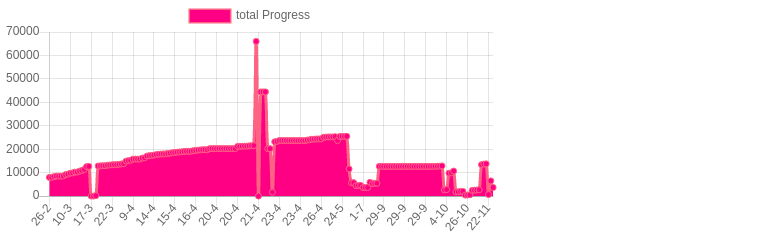
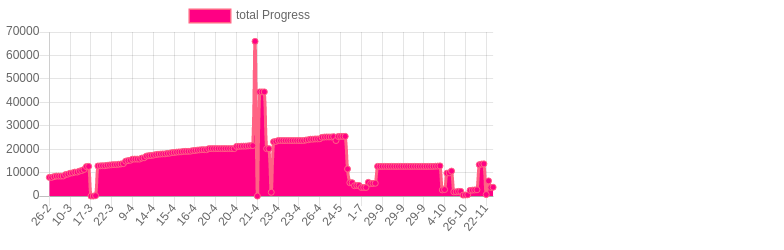
100 golang code

Changed region(s): [[0.0612, 0.14, 0.6429, 0.924], [0.0918, 0.7, 0.1224, 0.728]]

diff --git a/total.html b/total.html
@@ -9,7 +9,7 @@
         <script src="https://cdn.jsdelivr.net/npm/chart.js@2.8.0"></script>
         <script>
           var ctx = document.getElementById("total").getContext("2d");
-          const goLabelsDates = ["2021-02-27T01:37:43.112Z","2021-02-27T01:38:01.628Z","2021-03-01T13:41:18.753Z","2021-03-01T14:53:41.991Z","2021-03-01T15:08:00.851Z","2021-03-01T15:09:10.635Z","2021-03-01T15:22:55.385Z","2021-03-03T15:31:41.151Z","2021-03-05T14:02:13.446Z","2021-03-10T14:50:13.297Z","2021-03-11T01:54:03.424Z","2021-03-11T15:32:47.647Z","2021-03-11T16:01:51.191Z","2021-03-12T00:36:04.646Z","2021-03-13T00:14:58.179Z","2021-03-16T05:30:04.043Z","2021-03-17T21:17:52.181Z","2021-03-18T03:42:56.998Z","2021-03-18T03:44:29.834Z","2021-03-18T03:45:35.160Z","2021-03-18T03:45:54.668Z","2021-03-18T03:48:46.007Z","2021-03-18T05:10:54.427Z","2021-03-18T05:44:13.724Z","2021-03-18T05:56:11.032Z","2021-03-18T22:11:28.339Z","2021-03-19T11:28:55.383Z","2021-03-22T13:51:43.977Z","2021-03-23T01:52:09.452Z","2021-03-23T15:45:53.765Z","2021-03-24T01:46:02.104Z","2021-03-30T10:56:50.711Z","2021-04-01T15:03:17.764Z","2021-04-01T23:15:02.096Z","2021-04-07T19:21:55.040Z","2021-04-08T15:21:14.479Z","2021-04-09T23:17:58.037Z","2021-04-09T23:32:26.341Z","2021-04-09T23:34:42.049Z","2021-04-09T23:36:18.092Z","2021-04-10T01:45:40.218Z","2021-04-12T15:41:26.676Z","2021-04-14T02:00:41.039Z","2021-04-14T20:02:44.141Z","2021-04-14T21:14:15.821Z","2021-04-14T22:06:37.573Z","2021-04-14T22:42:14.693Z","2021-04-14T23:10:13.243Z","2021-04-14T23:22:54.824Z","2021-04-14T23:49:37.009Z","2021-04-15T02:28:51.974Z","2021-04-15T14:33:50.618Z","2021-04-15T15:09:11.104Z","2021-04-15T20:35:30.580Z","2021-04-16T00:04:33.158Z","2021-04-16T01:36:06.294Z","2021-04-16T01:53:35.992Z","2021-04-16T02:00:15.474Z","2021-04-16T16:08:40.977Z","2021-04-16T16:27:06.953Z","2021-04-16T16:59:30.526Z","2021-04-16T17:00:53.737Z","2021-04-16T23:14:36.283Z","2021-04-17T00:39:16.890Z","2021-04-17T01:11:09.986Z","2021-04-17T01:32:30.011Z","2021-04-17T01:44:22.446Z","2021-04-17T01:44:33.941Z","2021-04-17T02:35:55.774Z","2021-04-19T15:41:31.091Z","2021-04-20T15:32:32.239Z","2021-04-20T15:33:16.014Z","2021-04-20T15:36:11.438Z","2021-04-20T15:38:44.606Z","2021-04-20T15:41:50.350Z","2021-04-20T15:44:34.448Z","2021-04-20T15:46:49.295Z","2021-04-20T15:47:24.048Z","2021-04-20T15:56:22.046Z","2021-04-20T16:00:02.540Z","2021-04-20T16:01:15.511Z","2021-04-20T23:19:23.938Z","2021-04-21T00:40:54.443Z","2021-04-21T00:47:22.662Z","2021-04-21T02:01:09.006Z","2021-04-21T02:19:22.734Z","2021-04-21T15:53:36.038Z","2021-04-21T16:21:45.704Z","2021-04-21T16:26:32.790Z","2021-04-21T16:40:24.916Z","2021-04-21T16:43:40.235Z","2021-04-21T16:43:59.719Z","2021-04-21T16:44:40.304Z","2021-04-21T16:46:13.191Z","2021-04-21T16:48:41.898Z","2021-04-21T16:49:08.753Z","2021-04-21T16:50:32.397Z","2021-04-21T16:51:58.778Z","2021-04-23T00:49:32.826Z","2021-04-23T15:03:06.320Z","2021-04-23T15:04:13.039Z","2021-04-23T15:05:25.923Z","2021-04-23T15:11:04.285Z","2021-04-23T15:11:38.826Z","2021-04-23T15:12:05.618Z","2021-04-23T15:12:32.508Z","2021-04-23T15:13:17.058Z","2021-04-23T17:08:27.046Z","2021-04-23T18:02:30.357Z","2021-04-23T22:58:36.946Z","2021-04-23T23:00:26.027Z","2021-04-23T23:52:58.438Z","2021-04-24T01:12:51.525Z","2021-04-24T02:01:46.612Z","2021-04-26T12:46:47.336Z","2021-04-26T13:13:50.946Z","2021-04-26T13:16:04.473Z","2021-04-27T00:11:42.582Z","2021-04-30T03:26:37.101Z","2021-04-30T04:33:42.472Z","2021-04-30T05:15:42.646Z","2021-04-30T14:31:10.927Z","2021-05-04T01:51:49.907Z","2021-05-21T00:30:21.777Z","2021-05-24T15:07:09.579Z","2021-05-24T15:08:05.658Z","2021-05-24T15:22:20.903Z","2021-05-24T15:33:34.626Z","2021-05-24T15:46:16.101Z","2021-05-24T15:48:12.171Z","2021-05-24T15:53:54.498Z","2021-05-24T15:56:18.488Z","2021-05-28T22:50:32.914Z","2021-06-02T17:58:30.866Z","2021-07-01T05:04:25.826Z","2021-07-01T05:05:33.079Z","2021-09-03T16:56:54.023Z","2021-09-23T00:10:19.737Z","2021-09-23T00:54:30.987Z","2021-09-25T00:13:33.106Z","2021-09-25T00:56:09.874Z","2021-09-29T20:37:10.460Z","2021-09-29T20:39:45.107Z","2021-09-29T20:45:08.406Z","2021-09-29T20:45:42.995Z","2021-09-29T20:51:54.166Z","2021-09-29T21:04:45.487Z","2021-09-29T21:22:49.580Z","2021-09-29T21:23:34.860Z","2021-09-29T21:24:52.804Z","2021-09-29T21:25:12.938Z","2021-09-29T21:31:41.466Z","2021-09-29T21:32:02.856Z","2021-09-29T21:32:15.096Z","2021-09-29T21:37:01.273Z","2021-09-29T21:39:46.109Z","2021-09-29T21:40:23.862Z","2021-09-29T21:41:38.242Z","2021-09-29T21:45:36.053Z","2021-09-29T21:48:31.229Z","2021-09-29T21:49:46.414Z","2021-09-29T21:50:16.628Z","2021-09-29T21:52:23.035Z","2021-09-29T21:58:46.153Z","2021-09-29T21:59:06.075Z","2021-09-29T22:09:34.545Z","2021-09-29T22:24:59.487Z","2021-09-29T22:39:38.616Z","2021-09-29T23:07:40.178Z","2021-10-01T13:21:48.217Z","2021-10-01T14:11:47.682Z","2021-10-05T00:24:42.303Z","2021-10-05T14:36:34.233Z","2021-10-05T15:30:47.628Z","2021-10-13T14:16:32.194Z","2021-10-14T20:31:14.540Z","2021-10-15T02:04:50.667Z","2021-10-22T22:01:46.214Z","2021-10-26T00:04:54.365Z","2021-10-26T00:05:44.432Z","2021-10-26T13:52:24.065Z","2021-10-26T14:08:20.572Z","2021-11-11T01:24:39.296Z","2021-11-11T02:12:58.681Z","2021-11-11T03:09:01.800Z","2021-11-12T02:26:28.025Z","2021-11-20T00:54:03.498Z","2021-11-20T01:56:10.259Z","2021-11-23T01:08:04.347Z","2021-11-23T01:36:10.103Z","2021-11-23T23:01:06.868Z","2021-12-23T17:01:27.655Z",];
+          const goLabelsDates = ["2021-02-27T01:37:43.112Z","2021-02-27T01:38:01.628Z","2021-03-01T13:41:18.753Z","2021-03-01T14:53:41.991Z","2021-03-01T15:08:00.851Z","2021-03-01T15:09:10.635Z","2021-03-01T15:22:55.385Z","2021-03-03T15:31:41.151Z","2021-03-05T14:02:13.446Z","2021-03-10T14:50:13.297Z","2021-03-11T01:54:03.424Z","2021-03-11T15:32:47.647Z","2021-03-11T16:01:51.191Z","2021-03-12T00:36:04.646Z","2021-03-13T00:14:58.179Z","2021-03-16T05:30:04.043Z","2021-03-17T21:17:52.181Z","2021-03-18T03:42:56.998Z","2021-03-18T03:44:29.834Z","2021-03-18T03:45:35.160Z","2021-03-18T03:45:54.668Z","2021-03-18T03:48:46.007Z","2021-03-18T05:10:54.427Z","2021-03-18T05:44:13.724Z","2021-03-18T05:56:11.032Z","2021-03-18T22:11:28.339Z","2021-03-19T11:28:55.383Z","2021-03-22T13:51:43.977Z","2021-03-23T01:52:09.452Z","2021-03-23T15:45:53.765Z","2021-03-24T01:46:02.104Z","2021-03-30T10:56:50.711Z","2021-04-01T15:03:17.764Z","2021-04-01T23:15:02.096Z","2021-04-07T19:21:55.040Z","2021-04-08T15:21:14.479Z","2021-04-09T23:17:58.037Z","2021-04-09T23:32:26.341Z","2021-04-09T23:34:42.049Z","2021-04-09T23:36:18.092Z","2021-04-10T01:45:40.218Z","2021-04-12T15:41:26.676Z","2021-04-14T02:00:41.039Z","2021-04-14T20:02:44.141Z","2021-04-14T21:14:15.821Z","2021-04-14T22:06:37.573Z","2021-04-14T22:42:14.693Z","2021-04-14T23:10:13.243Z","2021-04-14T23:22:54.824Z","2021-04-14T23:49:37.009Z","2021-04-15T02:28:51.974Z","2021-04-15T14:33:50.618Z","2021-04-15T15:09:11.104Z","2021-04-15T20:35:30.580Z","2021-04-16T00:04:33.158Z","2021-04-16T01:36:06.294Z","2021-04-16T01:53:35.992Z","2021-04-16T02:00:15.474Z","2021-04-16T16:08:40.977Z","2021-04-16T16:27:06.953Z","2021-04-16T16:59:30.526Z","2021-04-16T17:00:53.737Z","2021-04-16T23:14:36.283Z","2021-04-17T00:39:16.890Z","2021-04-17T01:11:09.986Z","2021-04-17T01:32:30.011Z","2021-04-17T01:44:22.446Z","2021-04-17T01:44:33.941Z","2021-04-17T02:35:55.774Z","2021-04-19T15:41:31.091Z","2021-04-20T15:32:32.239Z","2021-04-20T15:33:16.014Z","2021-04-20T15:36:11.438Z","2021-04-20T15:38:44.606Z","2021-04-20T15:41:50.350Z","2021-04-20T15:44:34.448Z","2021-04-20T15:46:49.295Z","2021-04-20T15:47:24.048Z","2021-04-20T15:56:22.046Z","2021-04-20T16:00:02.540Z","2021-04-20T16:01:15.511Z","2021-04-20T23:19:23.938Z","2021-04-21T00:40:54.443Z","2021-04-21T00:47:22.662Z","2021-04-21T02:01:09.006Z","2021-04-21T02:19:22.734Z","2021-04-21T15:53:36.038Z","2021-04-21T16:21:45.704Z","2021-04-21T16:26:32.790Z","2021-04-21T16:40:24.916Z","2021-04-21T16:43:40.235Z","2021-04-21T16:43:59.719Z","2021-04-21T16:44:40.304Z","2021-04-21T16:46:13.191Z","2021-04-21T16:48:41.898Z","2021-04-21T16:49:08.753Z","2021-04-21T16:50:32.397Z","2021-04-21T16:51:58.778Z","2021-04-23T00:49:32.826Z","2021-04-23T15:03:06.320Z","2021-04-23T15:04:13.039Z","2021-04-23T15:05:25.923Z","2021-04-23T15:11:04.285Z","2021-04-23T15:11:38.826Z","2021-04-23T15:12:05.618Z","2021-04-23T15:12:32.508Z","2021-04-23T15:13:17.058Z","2021-04-23T17:08:27.046Z","2021-04-23T18:02:30.357Z","2021-04-23T22:58:36.946Z","2021-04-23T23:00:26.027Z","2021-04-23T23:52:58.438Z","2021-04-24T01:12:51.525Z","2021-04-24T02:01:46.612Z","2021-04-26T12:46:47.336Z","2021-04-26T13:13:50.946Z","2021-04-26T13:16:04.473Z","2021-04-27T00:11:42.582Z","2021-04-30T03:26:37.101Z","2021-04-30T04:33:42.472Z","2021-04-30T05:15:42.646Z","2021-04-30T14:31:10.927Z","2021-05-04T01:51:49.907Z","2021-05-21T00:30:21.777Z","2021-05-24T15:07:09.579Z","2021-05-24T15:08:05.658Z","2021-05-24T15:22:20.903Z","2021-05-24T15:33:34.626Z","2021-05-24T15:46:16.101Z","2021-05-24T15:48:12.171Z","2021-05-24T15:53:54.498Z","2021-05-24T15:56:18.488Z","2021-05-28T22:50:32.914Z","2021-06-02T17:58:30.866Z","2021-07-01T05:04:25.826Z","2021-07-01T05:05:33.079Z","2021-09-03T16:56:54.023Z","2021-09-23T00:10:19.737Z","2021-09-23T00:54:30.987Z","2021-09-25T00:13:33.106Z","2021-09-25T00:56:09.874Z","2021-09-29T20:37:10.460Z","2021-09-29T20:39:45.107Z","2021-09-29T20:45:08.406Z","2021-09-29T20:45:42.995Z","2021-09-29T20:51:54.166Z","2021-09-29T21:04:45.487Z","2021-09-29T21:22:49.580Z","2021-09-29T21:23:34.860Z","2021-09-29T21:24:52.804Z","2021-09-29T21:25:12.938Z","2021-09-29T21:31:41.466Z","2021-09-29T21:32:02.856Z","2021-09-29T21:32:15.096Z","2021-09-29T21:37:01.273Z","2021-09-29T21:39:46.109Z","2021-09-29T21:40:23.862Z","2021-09-29T21:41:38.242Z","2021-09-29T21:45:36.053Z","2021-09-29T21:48:31.229Z","2021-09-29T21:49:46.414Z","2021-09-29T21:50:16.628Z","2021-09-29T21:52:23.035Z","2021-09-29T21:58:46.153Z","2021-09-29T21:59:06.075Z","2021-09-29T22:09:34.545Z","2021-09-29T22:24:59.487Z","2021-09-29T22:39:38.616Z","2021-09-29T23:07:40.178Z","2021-10-01T13:21:48.217Z","2021-10-01T14:11:47.682Z","2021-10-05T00:24:42.303Z","2021-10-05T14:36:34.233Z","2021-10-05T15:30:47.628Z","2021-10-13T14:16:32.194Z","2021-10-14T20:31:14.540Z","2021-10-15T02:04:50.667Z","2021-10-22T22:01:46.214Z","2021-10-26T00:04:54.365Z","2021-10-26T00:05:44.432Z","2021-10-26T13:52:24.065Z","2021-10-26T14:08:20.572Z","2021-11-11T01:24:39.296Z","2021-11-11T02:12:58.681Z","2021-11-11T03:09:01.800Z","2021-11-12T02:26:28.025Z","2021-11-20T00:54:03.498Z","2021-11-20T01:56:10.259Z","2021-11-23T01:08:04.347Z","2021-11-23T01:36:10.103Z","2021-11-23T23:01:06.868Z","2021-12-23T17:01:27.655Z","2021-12-27T16:33:43.913Z",];
           var chart = new Chart(ctx, {
             type: 'line',
             data: {
@@ -18,7 +18,7 @@
                 label: 'total Progress',
                 backgroundColor: 'rgb(255, 0, 132)',
                 borderColor: 'rgb(255, 99, 132)',
-                data: [7975,7975,8307,8526,8526,8527,8573,9171,9358,9751,9908,10232,10231,10643,10911,11353,12576,12666,0,0,169,12835,12906,12953,12953,13141,13254,13354,13406,13417,13568,13708,13845,14886,15140,15267,15766,15777,15777,15777,16211,16345,17062,17247,17324,17464,17697,17849,17916,18002,18002,18202,18292,18515,18590,18744,18837,18876,19030,19086,19114,19143,19378,19465,19607,19714,19782,19782,19791,20220,20257,20257,20257,20257,20257,20257,20257,20257,20257,20257,20257,21179,21238,21279,21319,21319,21430,21506,21543,65995,0,44452,44452,44452,20233,20233,1629,23172,23326,23693,23693,23693,23693,23693,23693,23693,23693,23693,23693,23693,23693,23905,24023,24262,24275,24376,24376,24452,25078,25182,25238,25232,25233,25334,23696,25427,25453,25466,25491,11565,5707,5707,4421,4535,4535,3678,3678,3678,5861,5318,5422,5473,12667,12667,12667,12667,12667,12667,12667,12667,12667,12667,12667,12667,12667,12667,12667,12667,12667,12667,12658,12658,12657,12657,12657,12657,12683,12736,12779,12888,2619,2775,9772,9922,10674,1795,1824,2002,2000,422,468,543,2427,2526,2611,2684,13391,13661,13756,652,6494,3677,]
+                data: [7975,7975,8307,8526,8526,8527,8573,9171,9358,9751,9908,10232,10231,10643,10911,11353,12576,12666,0,0,169,12835,12906,12953,12953,13141,13254,13354,13406,13417,13568,13708,13845,14886,15140,15267,15766,15777,15777,15777,16211,16345,17062,17247,17324,17464,17697,17849,17916,18002,18002,18202,18292,18515,18590,18744,18837,18876,19030,19086,19114,19143,19378,19465,19607,19714,19782,19782,19791,20220,20257,20257,20257,20257,20257,20257,20257,20257,20257,20257,20257,21179,21238,21279,21319,21319,21430,21506,21543,65995,0,44452,44452,44452,20233,20233,1629,23172,23326,23693,23693,23693,23693,23693,23693,23693,23693,23693,23693,23693,23693,23905,24023,24262,24275,24376,24376,24452,25078,25182,25238,25232,25233,25334,23696,25427,25453,25466,25491,11565,5707,5707,4421,4535,4535,3678,3678,3678,5861,5318,5422,5473,12667,12667,12667,12667,12667,12667,12667,12667,12667,12667,12667,12667,12667,12667,12667,12667,12667,12667,12658,12658,12657,12657,12657,12657,12683,12736,12779,12888,2619,2775,9772,9922,10674,1795,1824,2002,2000,422,468,543,2427,2526,2611,2684,13391,13661,13756,652,6494,3677,3773,]
               }]
             },
           });

diff --git a/go.html b/go.html
@@ -9,7 +9,7 @@
         <script src="https://cdn.jsdelivr.net/npm/chart.js@2.8.0"></script>
         <script>
           var ctx = document.getElementById("go").getContext("2d");
-          const goLabelsDates = ["2021-02-27T01:37:43.111Z","2021-02-27T01:38:01.627Z","2021-03-01T14:53:41.990Z","2021-03-16T05:30:04.043Z","2021-03-18T05:44:13.724Z","2021-03-18T05:56:11.032Z","2021-03-18T22:11:28.339Z","2021-03-19T11:28:55.382Z","2021-03-22T13:51:43.976Z","2021-03-23T01:52:09.451Z","2021-03-23T15:45:53.764Z","2021-03-24T01:46:02.103Z","2021-03-30T10:56:50.710Z","2021-04-01T15:03:17.763Z","2021-04-01T23:15:02.095Z","2021-04-07T19:21:55.038Z","2021-04-08T15:21:14.478Z","2021-04-09T23:17:58.035Z","2021-04-09T23:32:26.340Z","2021-04-09T23:34:42.047Z","2021-04-09T23:36:18.091Z","2021-04-10T01:45:40.217Z","2021-04-12T15:41:26.675Z","2021-04-14T02:00:41.039Z","2021-04-14T20:02:44.140Z","2021-04-14T21:14:15.820Z","2021-04-14T22:06:37.573Z","2021-04-14T22:42:14.693Z","2021-04-14T23:10:13.242Z","2021-04-14T23:22:54.823Z","2021-04-14T23:49:37.009Z","2021-04-15T02:28:51.973Z","2021-04-15T14:33:50.618Z","2021-04-15T15:09:11.102Z","2021-04-15T20:35:30.579Z","2021-04-16T00:04:33.157Z","2021-04-16T01:36:06.293Z","2021-04-16T01:53:35.991Z","2021-04-16T02:00:15.472Z","2021-04-16T16:08:40.975Z","2021-04-16T16:27:06.952Z","2021-04-16T16:59:30.524Z","2021-04-16T17:00:53.733Z","2021-04-16T23:14:36.282Z","2021-04-17T00:39:16.888Z","2021-04-17T01:11:09.985Z","2021-04-17T01:32:30.008Z","2021-04-17T01:44:22.444Z","2021-04-17T01:44:33.940Z","2021-04-17T02:35:55.773Z","2021-04-19T15:41:31.090Z","2021-04-20T15:32:32.238Z","2021-04-20T15:33:16.013Z","2021-04-20T15:36:11.438Z","2021-04-20T15:38:44.605Z","2021-04-20T15:41:50.349Z","2021-04-20T15:44:34.447Z","2021-04-20T15:46:49.294Z","2021-04-20T15:47:24.047Z","2021-04-20T15:56:22.045Z","2021-04-20T16:00:02.539Z","2021-04-20T16:01:15.510Z","2021-04-20T23:19:23.937Z","2021-04-21T00:40:54.442Z","2021-04-21T00:47:22.661Z","2021-04-21T02:01:09.005Z","2021-04-21T02:19:22.733Z","2021-04-21T15:53:36.037Z","2021-04-21T16:21:45.703Z","2021-04-21T16:26:32.789Z","2021-04-21T16:40:24.916Z","2021-04-21T16:51:58.777Z","2021-04-23T00:49:32.825Z","2021-04-23T15:03:06.327Z","2021-04-23T15:04:13.044Z","2021-04-23T15:05:25.923Z","2021-04-23T15:13:17.062Z","2021-04-23T17:08:27.045Z","2021-04-23T18:02:30.354Z","2021-04-23T22:58:36.945Z","2021-04-23T23:00:26.027Z","2021-04-23T23:52:58.438Z","2021-04-24T01:12:51.524Z","2021-04-24T02:01:46.611Z","2021-04-26T12:46:47.335Z","2021-04-26T13:13:50.945Z","2021-04-26T13:16:04.471Z","2021-04-27T00:11:42.580Z","2021-04-30T03:26:37.098Z","2021-04-30T04:33:42.472Z","2021-04-30T05:15:42.645Z","2021-04-30T14:31:10.926Z","2021-05-04T01:51:49.906Z","2021-05-21T00:30:21.772Z","2021-05-24T15:07:09.573Z","2021-05-24T15:08:05.657Z","2021-05-24T15:22:20.902Z","2021-05-24T15:33:34.625Z","2021-05-24T15:46:16.101Z","2021-07-01T05:05:33.078Z","2021-09-03T16:56:54.022Z","2021-09-23T00:10:19.736Z","2021-09-23T00:54:30.986Z","2021-09-25T00:13:33.105Z","2021-09-25T00:56:09.873Z","2021-09-29T20:37:10.456Z","2021-09-29T20:39:45.106Z","2021-09-29T20:45:08.405Z","2021-09-29T20:45:42.993Z","2021-09-29T20:51:54.165Z","2021-09-29T21:04:45.485Z","2021-09-29T21:22:49.578Z","2021-09-29T21:23:34.859Z","2021-09-29T21:24:52.803Z","2021-09-29T21:25:12.936Z","2021-09-29T21:31:41.464Z","2021-09-29T21:32:02.853Z","2021-09-29T21:32:15.094Z","2021-09-29T21:36:24.777Z","2021-09-29T21:37:01.271Z","2021-09-29T21:39:46.106Z","2021-09-29T21:40:23.860Z","2021-09-29T21:41:38.229Z","2021-09-29T21:45:36.049Z","2021-09-29T21:48:31.220Z","2021-09-29T21:49:46.410Z","2021-09-29T21:50:16.624Z","2021-09-29T21:52:23.032Z","2021-09-29T21:58:46.150Z","2021-09-29T21:59:06.072Z","2021-09-29T22:09:34.542Z","2021-09-29T22:24:59.484Z","2021-09-29T22:39:38.613Z","2021-09-29T23:07:40.175Z","2021-10-01T13:21:48.213Z","2021-10-13T14:16:32.192Z","2021-11-20T00:54:03.493Z","2021-11-20T01:56:10.254Z","2021-11-23T01:08:04.342Z","2021-11-23T23:01:06.863Z","2021-12-23T17:01:27.650Z",];
+          const goLabelsDates = ["2021-02-27T01:37:43.111Z","2021-02-27T01:38:01.627Z","2021-03-01T14:53:41.990Z","2021-03-16T05:30:04.043Z","2021-03-18T05:44:13.724Z","2021-03-18T05:56:11.032Z","2021-03-18T22:11:28.339Z","2021-03-19T11:28:55.382Z","2021-03-22T13:51:43.976Z","2021-03-23T01:52:09.451Z","2021-03-23T15:45:53.764Z","2021-03-24T01:46:02.103Z","2021-03-30T10:56:50.710Z","2021-04-01T15:03:17.763Z","2021-04-01T23:15:02.095Z","2021-04-07T19:21:55.038Z","2021-04-08T15:21:14.478Z","2021-04-09T23:17:58.035Z","2021-04-09T23:32:26.340Z","2021-04-09T23:34:42.047Z","2021-04-09T23:36:18.091Z","2021-04-10T01:45:40.217Z","2021-04-12T15:41:26.675Z","2021-04-14T02:00:41.039Z","2021-04-14T20:02:44.140Z","2021-04-14T21:14:15.820Z","2021-04-14T22:06:37.573Z","2021-04-14T22:42:14.693Z","2021-04-14T23:10:13.242Z","2021-04-14T23:22:54.823Z","2021-04-14T23:49:37.009Z","2021-04-15T02:28:51.973Z","2021-04-15T14:33:50.618Z","2021-04-15T15:09:11.102Z","2021-04-15T20:35:30.579Z","2021-04-16T00:04:33.157Z","2021-04-16T01:36:06.293Z","2021-04-16T01:53:35.991Z","2021-04-16T02:00:15.472Z","2021-04-16T16:08:40.975Z","2021-04-16T16:27:06.952Z","2021-04-16T16:59:30.524Z","2021-04-16T17:00:53.733Z","2021-04-16T23:14:36.282Z","2021-04-17T00:39:16.888Z","2021-04-17T01:11:09.985Z","2021-04-17T01:32:30.008Z","2021-04-17T01:44:22.444Z","2021-04-17T01:44:33.940Z","2021-04-17T02:35:55.773Z","2021-04-19T15:41:31.090Z","2021-04-20T15:32:32.238Z","2021-04-20T15:33:16.013Z","2021-04-20T15:36:11.438Z","2021-04-20T15:38:44.605Z","2021-04-20T15:41:50.349Z","2021-04-20T15:44:34.447Z","2021-04-20T15:46:49.294Z","2021-04-20T15:47:24.047Z","2021-04-20T15:56:22.045Z","2021-04-20T16:00:02.539Z","2021-04-20T16:01:15.510Z","2021-04-20T23:19:23.937Z","2021-04-21T00:40:54.442Z","2021-04-21T00:47:22.661Z","2021-04-21T02:01:09.005Z","2021-04-21T02:19:22.733Z","2021-04-21T15:53:36.037Z","2021-04-21T16:21:45.703Z","2021-04-21T16:26:32.789Z","2021-04-21T16:40:24.916Z","2021-04-21T16:51:58.777Z","2021-04-23T00:49:32.825Z","2021-04-23T15:03:06.327Z","2021-04-23T15:04:13.044Z","2021-04-23T15:05:25.923Z","2021-04-23T15:13:17.062Z","2021-04-23T17:08:27.045Z","2021-04-23T18:02:30.354Z","2021-04-23T22:58:36.945Z","2021-04-23T23:00:26.027Z","2021-04-23T23:52:58.438Z","2021-04-24T01:12:51.524Z","2021-04-24T02:01:46.611Z","2021-04-26T12:46:47.335Z","2021-04-26T13:13:50.945Z","2021-04-26T13:16:04.471Z","2021-04-27T00:11:42.580Z","2021-04-30T03:26:37.098Z","2021-04-30T04:33:42.472Z","2021-04-30T05:15:42.645Z","2021-04-30T14:31:10.926Z","2021-05-04T01:51:49.906Z","2021-05-21T00:30:21.772Z","2021-05-24T15:07:09.573Z","2021-05-24T15:08:05.657Z","2021-05-24T15:22:20.902Z","2021-05-24T15:33:34.625Z","2021-05-24T15:46:16.101Z","2021-07-01T05:05:33.078Z","2021-09-03T16:56:54.022Z","2021-09-23T00:10:19.736Z","2021-09-23T00:54:30.986Z","2021-09-25T00:13:33.105Z","2021-09-25T00:56:09.873Z","2021-09-29T20:37:10.456Z","2021-09-29T20:39:45.106Z","2021-09-29T20:45:08.405Z","2021-09-29T20:45:42.993Z","2021-09-29T20:51:54.165Z","2021-09-29T21:04:45.485Z","2021-09-29T21:22:49.578Z","2021-09-29T21:23:34.859Z","2021-09-29T21:24:52.803Z","2021-09-29T21:25:12.936Z","2021-09-29T21:31:41.464Z","2021-09-29T21:32:02.853Z","2021-09-29T21:32:15.094Z","2021-09-29T21:36:24.777Z","2021-09-29T21:37:01.271Z","2021-09-29T21:39:46.106Z","2021-09-29T21:40:23.860Z","2021-09-29T21:41:38.229Z","2021-09-29T21:45:36.049Z","2021-09-29T21:48:31.220Z","2021-09-29T21:49:46.410Z","2021-09-29T21:50:16.624Z","2021-09-29T21:52:23.032Z","2021-09-29T21:58:46.150Z","2021-09-29T21:59:06.072Z","2021-09-29T22:09:34.542Z","2021-09-29T22:24:59.484Z","2021-09-29T22:39:38.613Z","2021-09-29T23:07:40.175Z","2021-10-01T13:21:48.213Z","2021-10-13T14:16:32.192Z","2021-11-20T00:54:03.493Z","2021-11-20T01:56:10.254Z","2021-11-23T01:08:04.342Z","2021-11-23T23:01:06.863Z","2021-12-23T17:01:27.650Z","2021-12-27T16:33:43.903Z",];
           var chart = new Chart(ctx, {
             type: 'line',
             data: {
@@ -18,7 +18,7 @@
                 label: 'go Progress',
                 backgroundColor: 'rgb(255, 0, 132)',
                 borderColor: 'rgb(255, 99, 132)',
-                data: [1982,1982,2201,2307,2307,2307,2307,2307,2307,2337,2337,2337,2337,2337,2337,2337,2337,2337,2337,2337,2337,2337,2337,2337,2337,2337,2337,2337,2337,2337,2337,2337,2337,2337,2337,2337,2337,2337,2337,2337,2337,2337,2337,2337,2337,2337,2337,2337,2337,2337,2766,2803,2803,2803,2803,2803,2803,2803,2803,2803,2803,2803,3012,3012,3012,3012,3012,3012,3012,3012,3012,3012,3012,3012,3012,3012,3012,3012,3012,3012,3012,3012,3012,3012,3012,3012,3012,3012,3012,3012,3012,3012,3012,3012,3012,3012,3012,3012,3012,3061,3061,3061,3061,3061,3061,3061,3061,3061,3061,3061,3061,3061,3061,3061,3061,3061,3061,3061,3061,3061,3061,3061,3061,3061,3061,3052,3052,3052,3052,3052,3052,3078,3131,3174,3214,3330,3362,3468,3488,3573,3677,]
+                data: [1982,1982,2201,2307,2307,2307,2307,2307,2307,2337,2337,2337,2337,2337,2337,2337,2337,2337,2337,2337,2337,2337,2337,2337,2337,2337,2337,2337,2337,2337,2337,2337,2337,2337,2337,2337,2337,2337,2337,2337,2337,2337,2337,2337,2337,2337,2337,2337,2337,2337,2766,2803,2803,2803,2803,2803,2803,2803,2803,2803,2803,2803,3012,3012,3012,3012,3012,3012,3012,3012,3012,3012,3012,3012,3012,3012,3012,3012,3012,3012,3012,3012,3012,3012,3012,3012,3012,3012,3012,3012,3012,3012,3012,3012,3012,3012,3012,3012,3012,3061,3061,3061,3061,3061,3061,3061,3061,3061,3061,3061,3061,3061,3061,3061,3061,3061,3061,3061,3061,3061,3061,3061,3061,3061,3061,3052,3052,3052,3052,3052,3052,3078,3131,3174,3214,3330,3362,3468,3488,3573,3677,3773,]
               }]
             },
           });

diff --git a/Readme.md b/Readme.md
@@ -1,11 +1,11 @@
 # All count
 |Language|Goal|Lines%|%|%|%|Subjects|
 |----------|-------|-------|--------|--------|--------|--------|
-|go|10000|3677|37|![go](https://raw.githubusercontent.com/kapit4n/l-10000-dev/master/go.png)|structs, loops|consumingRESTfulAPI, data structures, design pattern, go slices, image file url, mysql, queue, web3, auth0, gin auth, defer feature, fiber example, mux, face recognition|
-|TOTAL|3677|36.770%|
+|go|10000|3773|38|![go](https://raw.githubusercontent.com/kapit4n/l-10000-dev/master/go.png)|structs, loops|consumingRESTfulAPI, data structures, design pattern, go slices, image file url, mysql, queue, web3, auth0, gin auth, jwt example, defer feature, fiber example, mux, face recognition|
+|TOTAL|3773|37.730%|
 10/02(0)
 
-10/03(3677)
+10/03(3773)
 
 
   # run it
@@ -28,4 +28,4 @@
   * Angular, React, Vue
   * Spring, Play
   * Scala, Java
-  , 2021-12-23T17:01:27.655Z
+  , 2021-12-27T16:33:43.913Z
